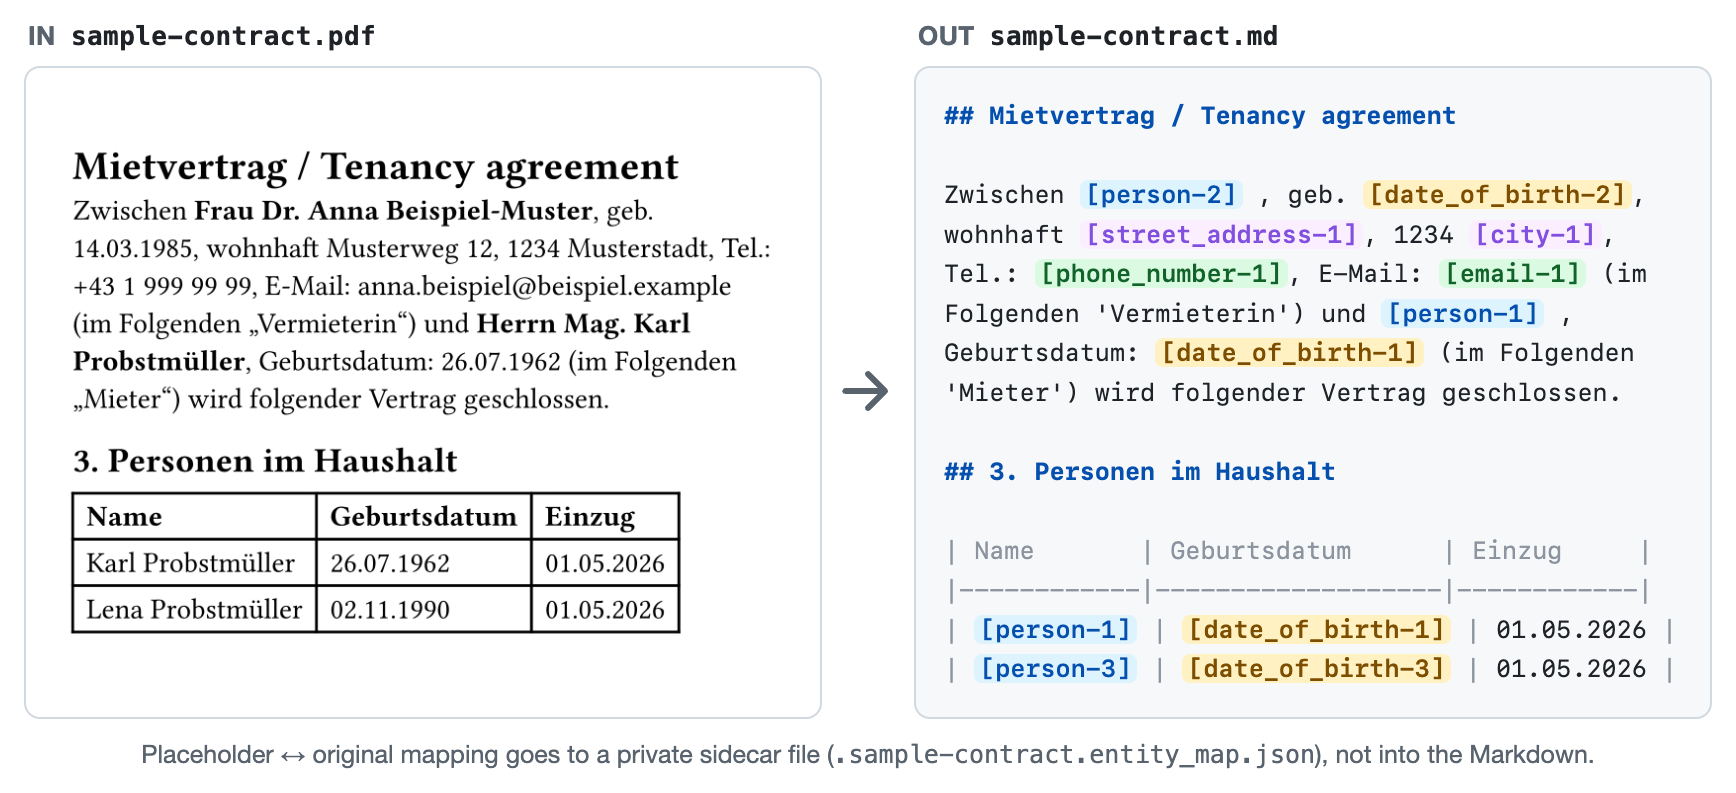
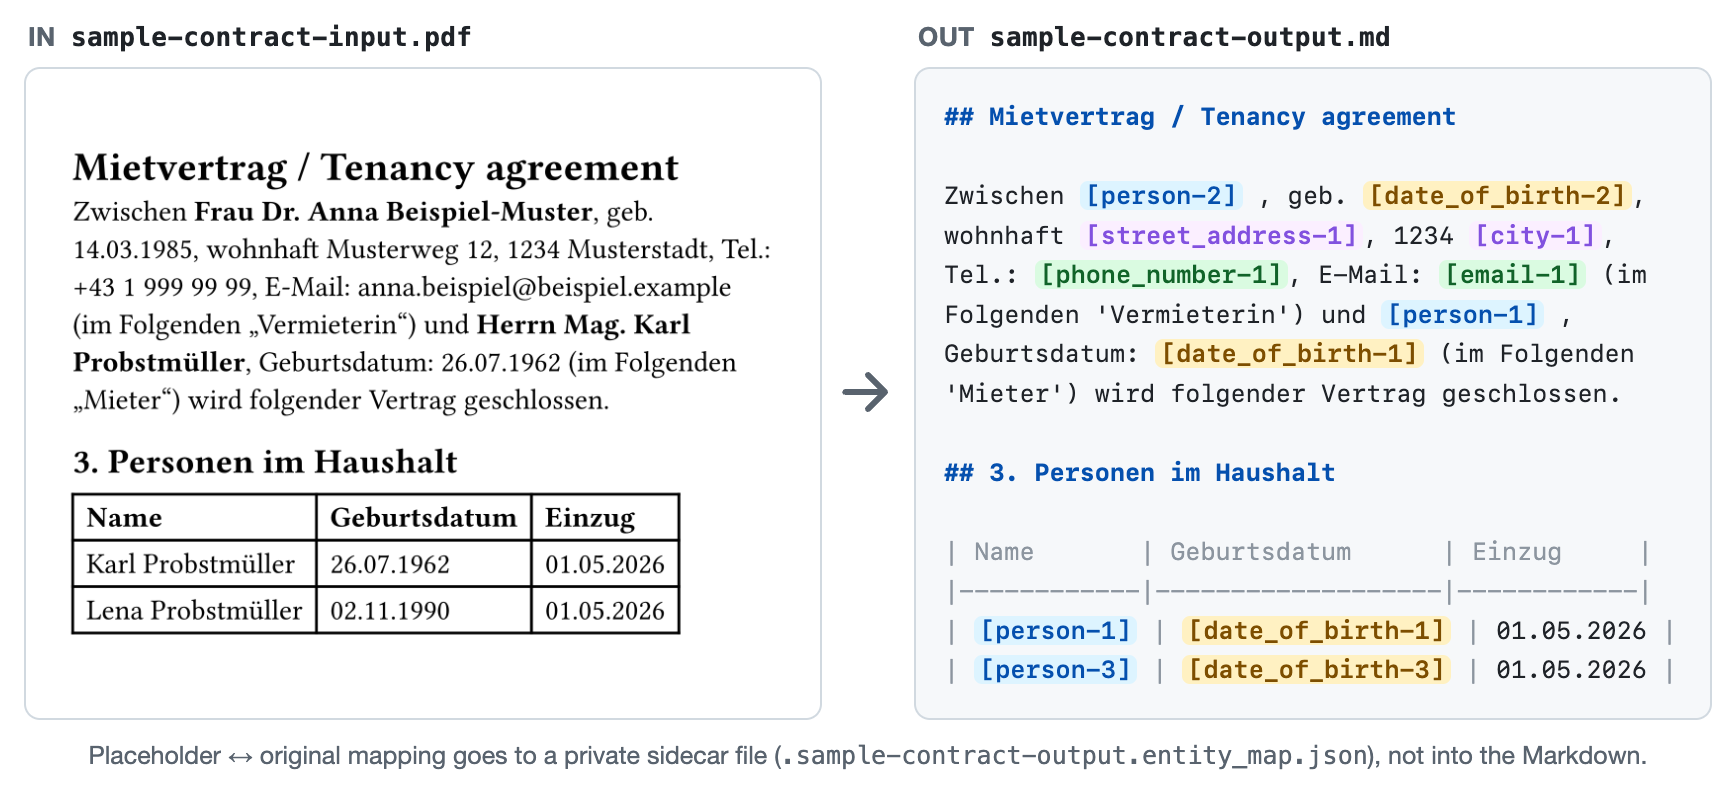
Name example files *-input / *-output
sample-lab.pdf looked like a redacted file although it is the fictional
input. Inputs are now *-input.pdf; outputs are what
'./redact-pdf examples/<name>-input.pdf --rename <name>-output' writes
(Markdown unchanged byte for byte). README, .gitignore, typst build
comments and the contract before/after image follow.

Claude-Session: https://claude.ai/code/session_01MQZztcgHgviXrBVtMvmvyq

diff --git a/docs/img/before-after.html b/docs/img/before-after.html
@@ -19,10 +19,10 @@ body{width:880px;background:#fff;font-family:-apple-system,"Helvetica Neue",Aria
 .foot{font-size:12.5px;color:#59636e;margin-top:10px;text-align:center}
 </style></head><body>
 <div class="row">
- <div class="col"><div class="lab">IN &nbsp;<code>sample-contract.pdf</code></div>
+ <div class="col"><div class="lab">IN &nbsp;<code>sample-contract-input.pdf</code></div>
   <div class="card paper"><img src="left.png"></div></div>
  <div class="arrow"><svg width="34" height="34" viewBox="0 0 24 24"><path d="M4 12h14m-6-6 6 6-6 6" fill="none" stroke="#59636e" stroke-width="2.2" stroke-linecap="round" stroke-linejoin="round"/></svg></div>
- <div class="col"><div class="lab">OUT &nbsp;<code>sample-contract.md</code></div>
+ <div class="col"><div class="lab">OUT &nbsp;<code>sample-contract-output.md</code></div>
   <div class="card md"><span class="h">## Mietvertrag / Tenancy agreement</span>
 
 Zwischen <span class="p person">[person-2]</span> , geb. <span class="p dob">[date_of_birth-2]</span>, wohnhaft <span class="p addr">[street_address-1]</span>, 1234 <span class="p addr">[city-1]</span>, Tel.: <span class="p contact">[phone_number-1]</span>, E-Mail: <span class="p contact">[email-1]</span> (im Folgenden 'Vermieterin') und <span class="p person">[person-1]</span> , Geburtsdatum: <span class="p dob">[date_of_birth-1]</span> (im Folgenden 'Mieter') wird folgender Vertrag geschlossen.
@@ -34,5 +34,5 @@ Zwischen <span class="p person">[person-2]</span> , geb. <span class="p dob">[da
 <span class="dim">|</span> <span class="p person">[person-1]</span> <span class="dim">|</span> <span class="p dob">[date_of_birth-1]</span> <span class="dim">|</span> 01.05.2026 <span class="dim">|</span>
 <span class="dim">|</span> <span class="p person">[person-3]</span> <span class="dim">|</span> <span class="p dob">[date_of_birth-3]</span> <span class="dim">|</span> 01.05.2026 <span class="dim">|</span></div></div>
 </div>
-<div class="foot">Placeholder ↔ original mapping goes to a private sidecar file (<code style="font-family:ui-monospace,Menlo,monospace">.sample-contract.entity_map.json</code>), not into the Markdown.</div>
+<div class="foot">Placeholder ↔ original mapping goes to a private sidecar file (<code style="font-family:ui-monospace,Menlo,monospace">.sample-contract-output.entity_map.json</code>), not into the Markdown.</div>
 </body></html>

diff --git a/README.md b/README.md
@@ -57,15 +57,17 @@ Progress lines contain only counts, stage names, page numbers and times: no docu
 ./redact-pdf --selftest --strict   # strict mode
 ```
 
-Feeds fictional DE, EN, FR and ES samples plus German edge-case (including lab-report dates, decimals and phone layouts next to them), unlabeled-ID, long-paragraph and table samples as strings through the redaction stages (per-item redaction, regex post-pass, table DOB/name anchoring, name aliasing, recurrence sweep) and checks must-redact and must-keep lists (dates that are not DOBs, amounts, "Kontoauszug", role nouns, tariff names). Model-independent checks also cover multilingual name headers, partial placeholders, short names, field-label preservation, title/case/whitespace name variants and ambiguous surnames in either mention order. It does not exercise Docling conversion, per-cell table processing, metadata or file writes; `examples/sample-contract.pdf` covers those by eye. Exit code 5 on failure. Documented leaks print as `KNOWN LEAK` warnings without failing the run.
+Feeds fictional DE, EN, FR and ES samples plus German edge-case (including lab-report dates, decimals and phone layouts next to them), unlabeled-ID, long-paragraph and table samples as strings through the redaction stages (per-item redaction, regex post-pass, table DOB/name anchoring, name aliasing, recurrence sweep) and checks must-redact and must-keep lists (dates that are not DOBs, amounts, "Kontoauszug", role nouns, tariff names). Model-independent checks also cover multilingual name headers, partial placeholders, short names, field-label preservation, title/case/whitespace name variants and ambiguous surnames in either mention order. It does not exercise Docling conversion, per-cell table processing, metadata or file writes; `examples/sample-contract-input.pdf` covers those by eye. Exit code 5 on failure. Documented leaks print as `KNOWN LEAK` warnings without failing the run.
 
 Both modes pass with the pinned GLiNER revision (`GLINER_REVISION` in the script) and the dependency versions locked in `redact-pdf.lock`, which `uv run --script` picks up automatically. One run takes about 40 s on an Apple M3 laptop after the first download.
 
 ## Example
 
-[`examples/sample-contract.pdf`](examples/sample-contract.pdf) is a fictional German tenancy agreement built from [`sample-contract.typ`](examples/sample-contract.typ) (`typst compile examples/sample-contract.typ`). Its redacted output and sidecar are committed next to it: [`sample-contract.md`](examples/sample-contract.md) and `examples/.sample-contract.entity_map.json`.
+Each example is a fictional input PDF built from a typst source, plus the outputs redact-pdf writes for it. Inputs end in `-input`, outputs in `-output`; regenerate them with `./redact-pdf examples/<name>-input.pdf --rename <name>-output --force`.
 
-[`examples/sample-lab.pdf`](examples/sample-lab.pdf) is a fictional cumulative lab report ([`sample-lab.typ`](examples/sample-lab.typ)): date/time column headers with two-digit years, reference ranges, decimals, a doctor's name and a phone number in the comments. In [`sample-lab.md`](examples/sample-lab.md) (sidecar `examples/.sample-lab.entity_map.json`) the name and number are placeholders while every date, range and value stays readable. The patient line exists only in the page header, which Docling drops.
+[`examples/sample-contract-input.pdf`](examples/sample-contract-input.pdf) is a fictional German tenancy agreement built from [`sample-contract.typ`](examples/sample-contract.typ). Output: [`sample-contract-output.md`](examples/sample-contract-output.md) and its sidecar `examples/.sample-contract-output.entity_map.json`.
+
+[`examples/sample-lab-input.pdf`](examples/sample-lab-input.pdf) is a fictional cumulative lab report ([`sample-lab.typ`](examples/sample-lab.typ)): date/time column headers with two-digit years, reference ranges, decimals, a doctor's name and a phone number in the comments. In [`sample-lab-output.md`](examples/sample-lab-output.md) (sidecar `examples/.sample-lab-output.entity_map.json`) the name and number are placeholders while every date, range and value stays readable. The patient line exists only in the page header, which Docling drops.
 
 ## Languages
 
